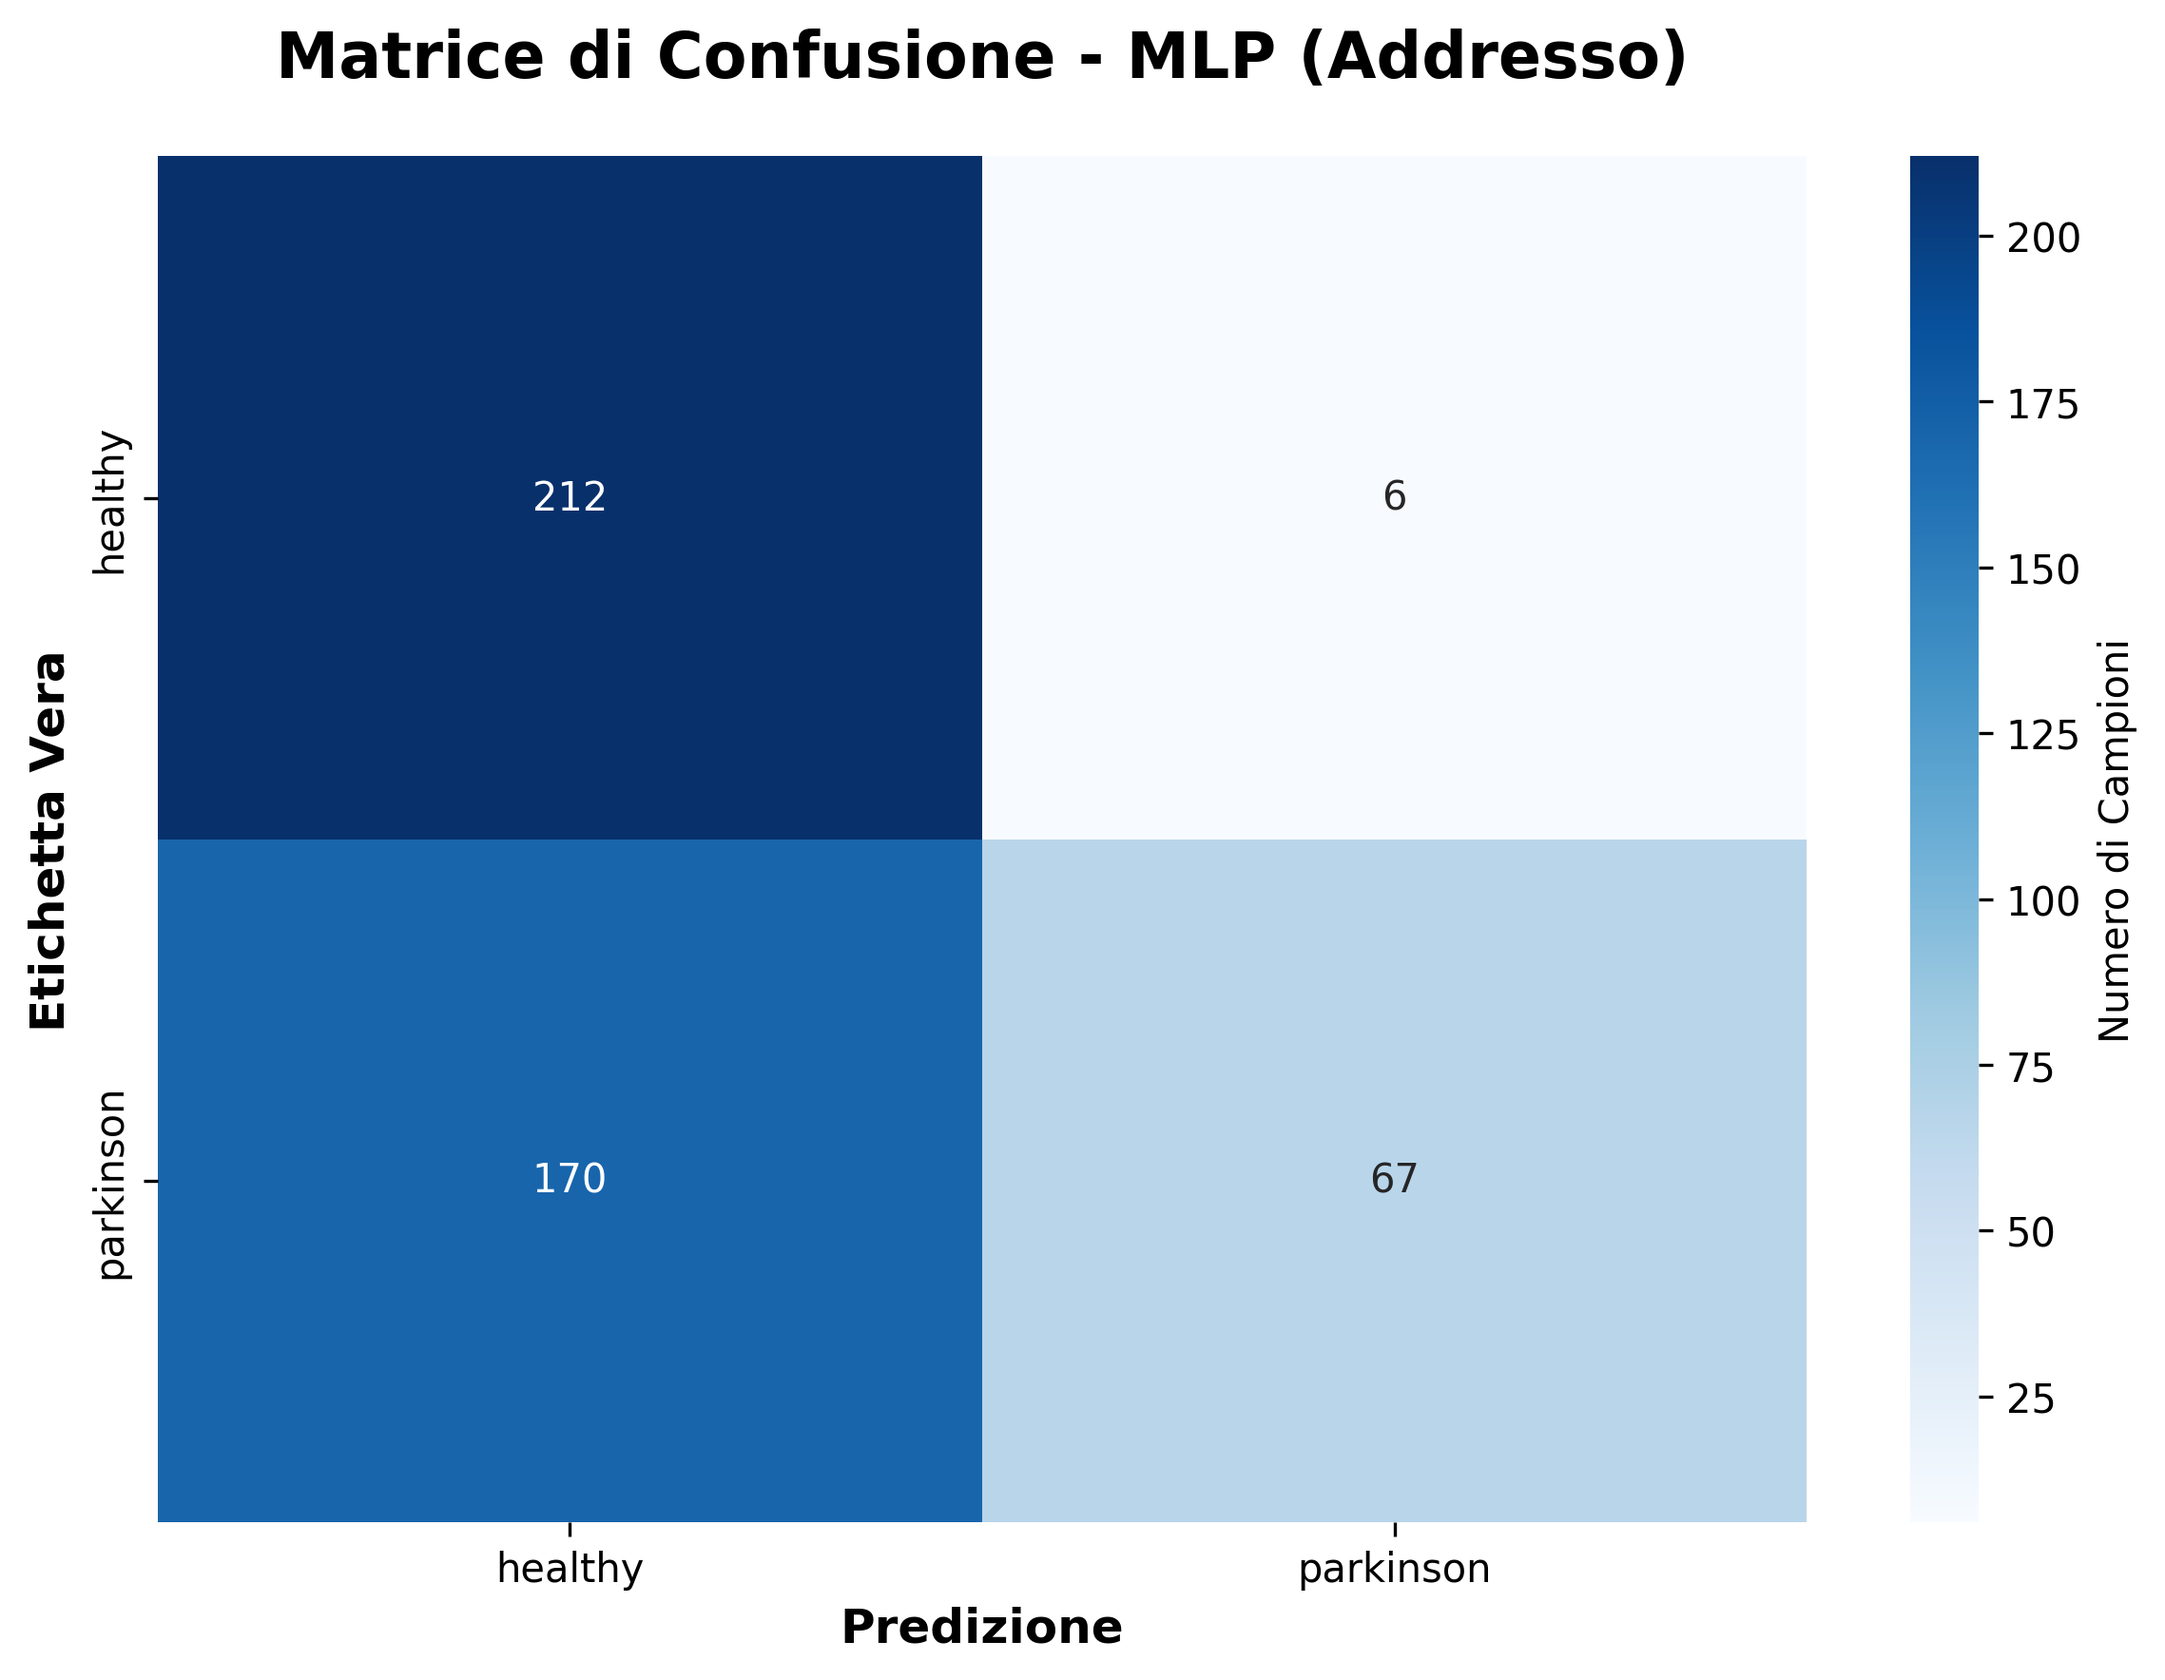
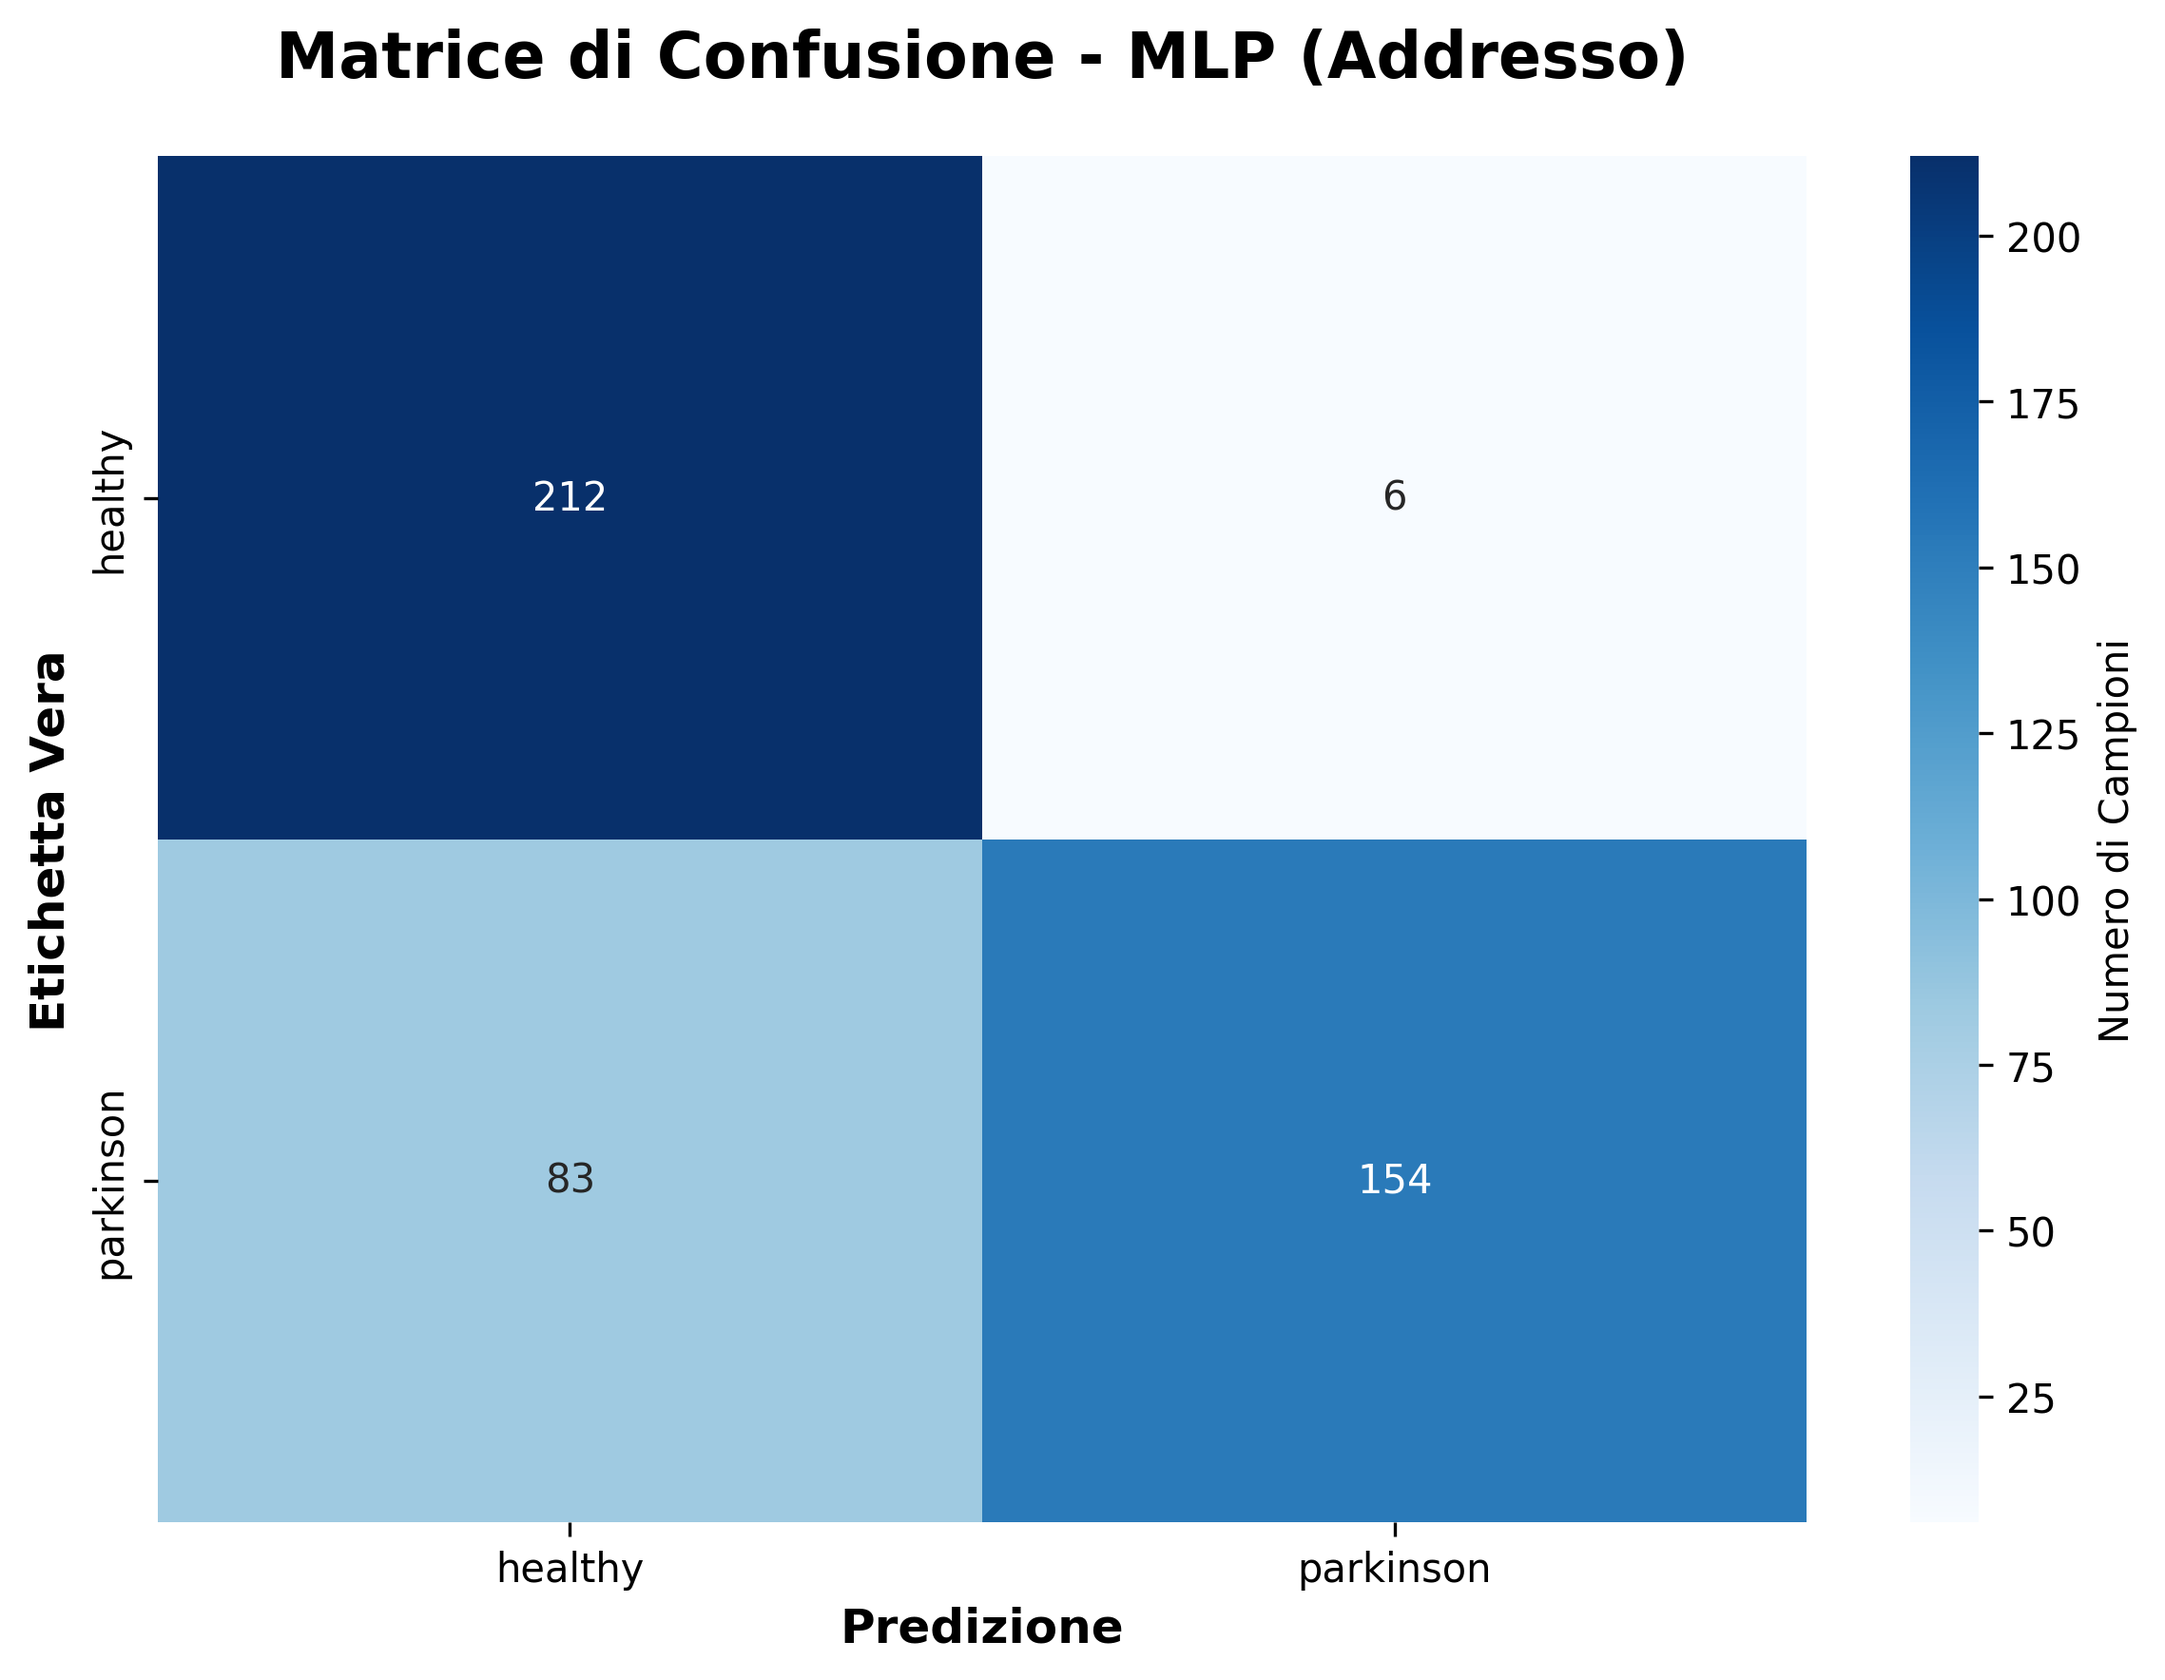
fine tuning

diff --git a/data_classes/dataset.py b/data_classes/dataset.py
@@ -11,6 +11,20 @@ from torch.utils.data import Dataset
 from torchaudio.transforms import Resample, MelSpectrogram
 
 
+# Funzioni per label extraction (sostituiscono le lambda per compatibilità multiprocessing)
+def extract_ita_pvs_label(filepath: str) -> str:
+    """Estrae label per dataset Ita-PVS"""
+    return "healthy" if "Healthy Control" in filepath else "parkinson"
+
+def extract_neurovoz_label(filepath: str) -> str:
+    """Estrae label per dataset Neurovoz"""
+    return "healthy" if os.path.basename(filepath).startswith("HC_") else "parkinson"
+
+def extract_addresso_label(filepath: str) -> str:
+    """Estrae label per dataset Addresso"""
+    return "cn" if "/cn/" in filepath or "\\cn\\" in filepath else "ad"
+
+
 class Sample(TypedDict):
     waveform: Tensor
     label: int
@@ -70,17 +84,17 @@ class AudioDataset(Dataset[Sample]):
         "Ita-PVS": {
             "label_dict": {"healthy": 0, "parkinson": 1},
             "file_pattern": ".wav",
-            "label_extractor": lambda filepath: "healthy" if "Healthy Control" in filepath else "parkinson"
+            "label_extractor": extract_ita_pvs_label  # Sostituita lambda con funzione
         },
         "Neurovoz": {
             "label_dict": {"healthy": 0, "parkinson": 1},
             "file_pattern": ".wav", 
-            "label_extractor": lambda filepath: "healthy" if os.path.basename(filepath).startswith("HC_") else "parkinson"
+            "label_extractor": extract_neurovoz_label  # Sostituita lambda con funzione
         },
         "Addresso": {
             "label_dict": {"cn": 0, "ad": 1},  # cn=controlli, ad=alzheimer
             "file_pattern": ".wav",
-            "label_extractor": lambda filepath: "cn" if "/cn/" in filepath or "\\cn\\" in filepath else "ad",
+            "label_extractor": extract_addresso_label,  # Sostituita lambda con funzione
             "has_predefined_splits": True,  # Indica che train/test sono già separati
             "has_segmentation": True  # Indica che usa file CSV per segmentazione
         }
